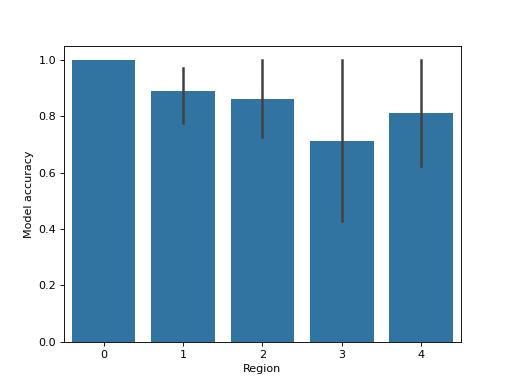
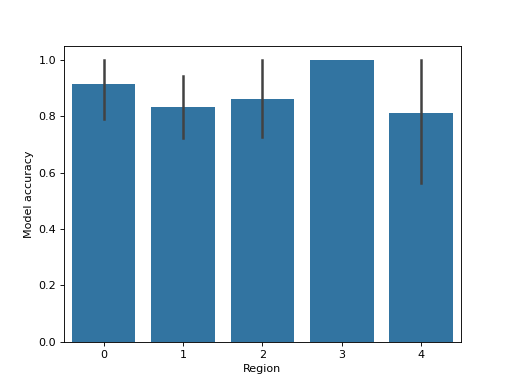
chore: update plot [skip ci]

diff --git a/report.md b/report.md
@@ -1,7 +1,3 @@
-### 📊 Analysis for 9e10fe2b3398241373f913b3d0d7c664e1a51c55
-Path          Metric       HEAD     workspace    Change
-metrics.json  accuracy     0.86667  0.88571      0.01905
-metrics.json  sensitivity  0.95506  0.94382      -0.01124
-metrics.json  specificity  0.375    0.5625       0.1875
+### 📊 Analysis for 0b3266f4a872e805d42e20f240d333ed966872d7
 ### Region wise plot
-![Region Plot](https://raw.githubusercontent.com/hammadmajeed/mlops-spring-2026-dvc-introduction/LDA/by_region.png)
+![Region Plot](https://raw.githubusercontent.com/hammadmajeed/mlops-spring-2026-dvc-introduction/logisticregression/by_region.png)
